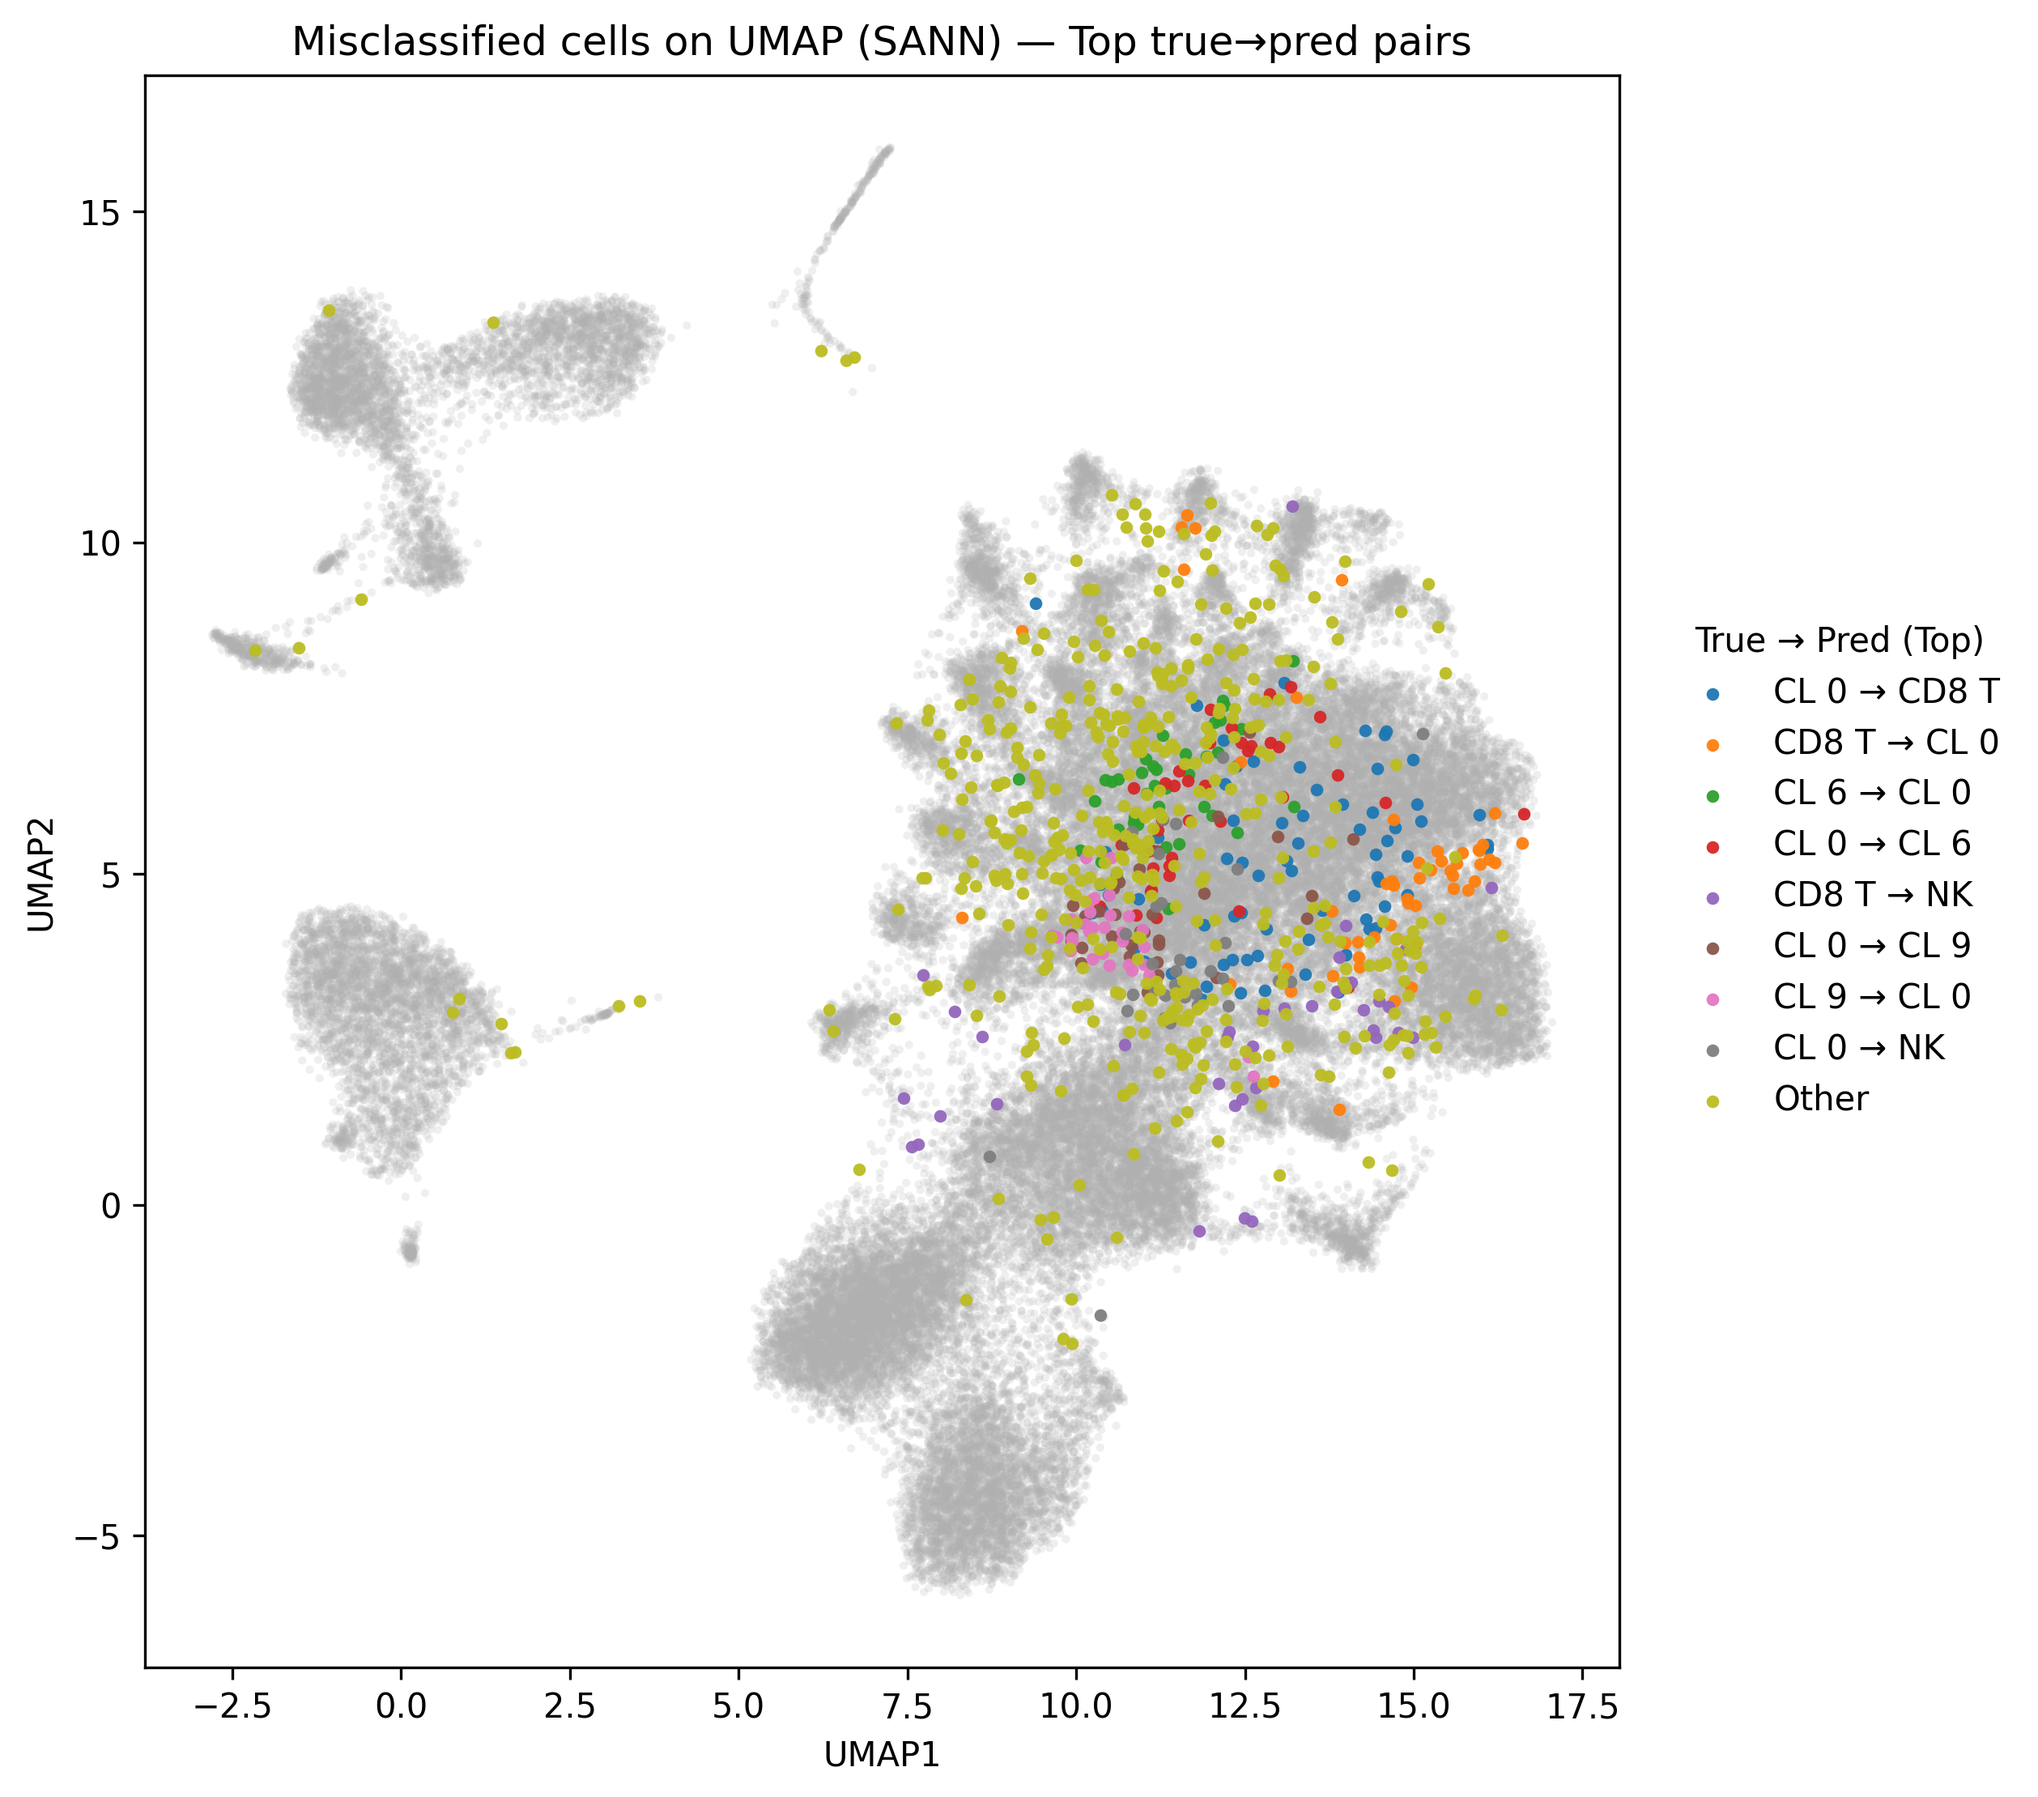
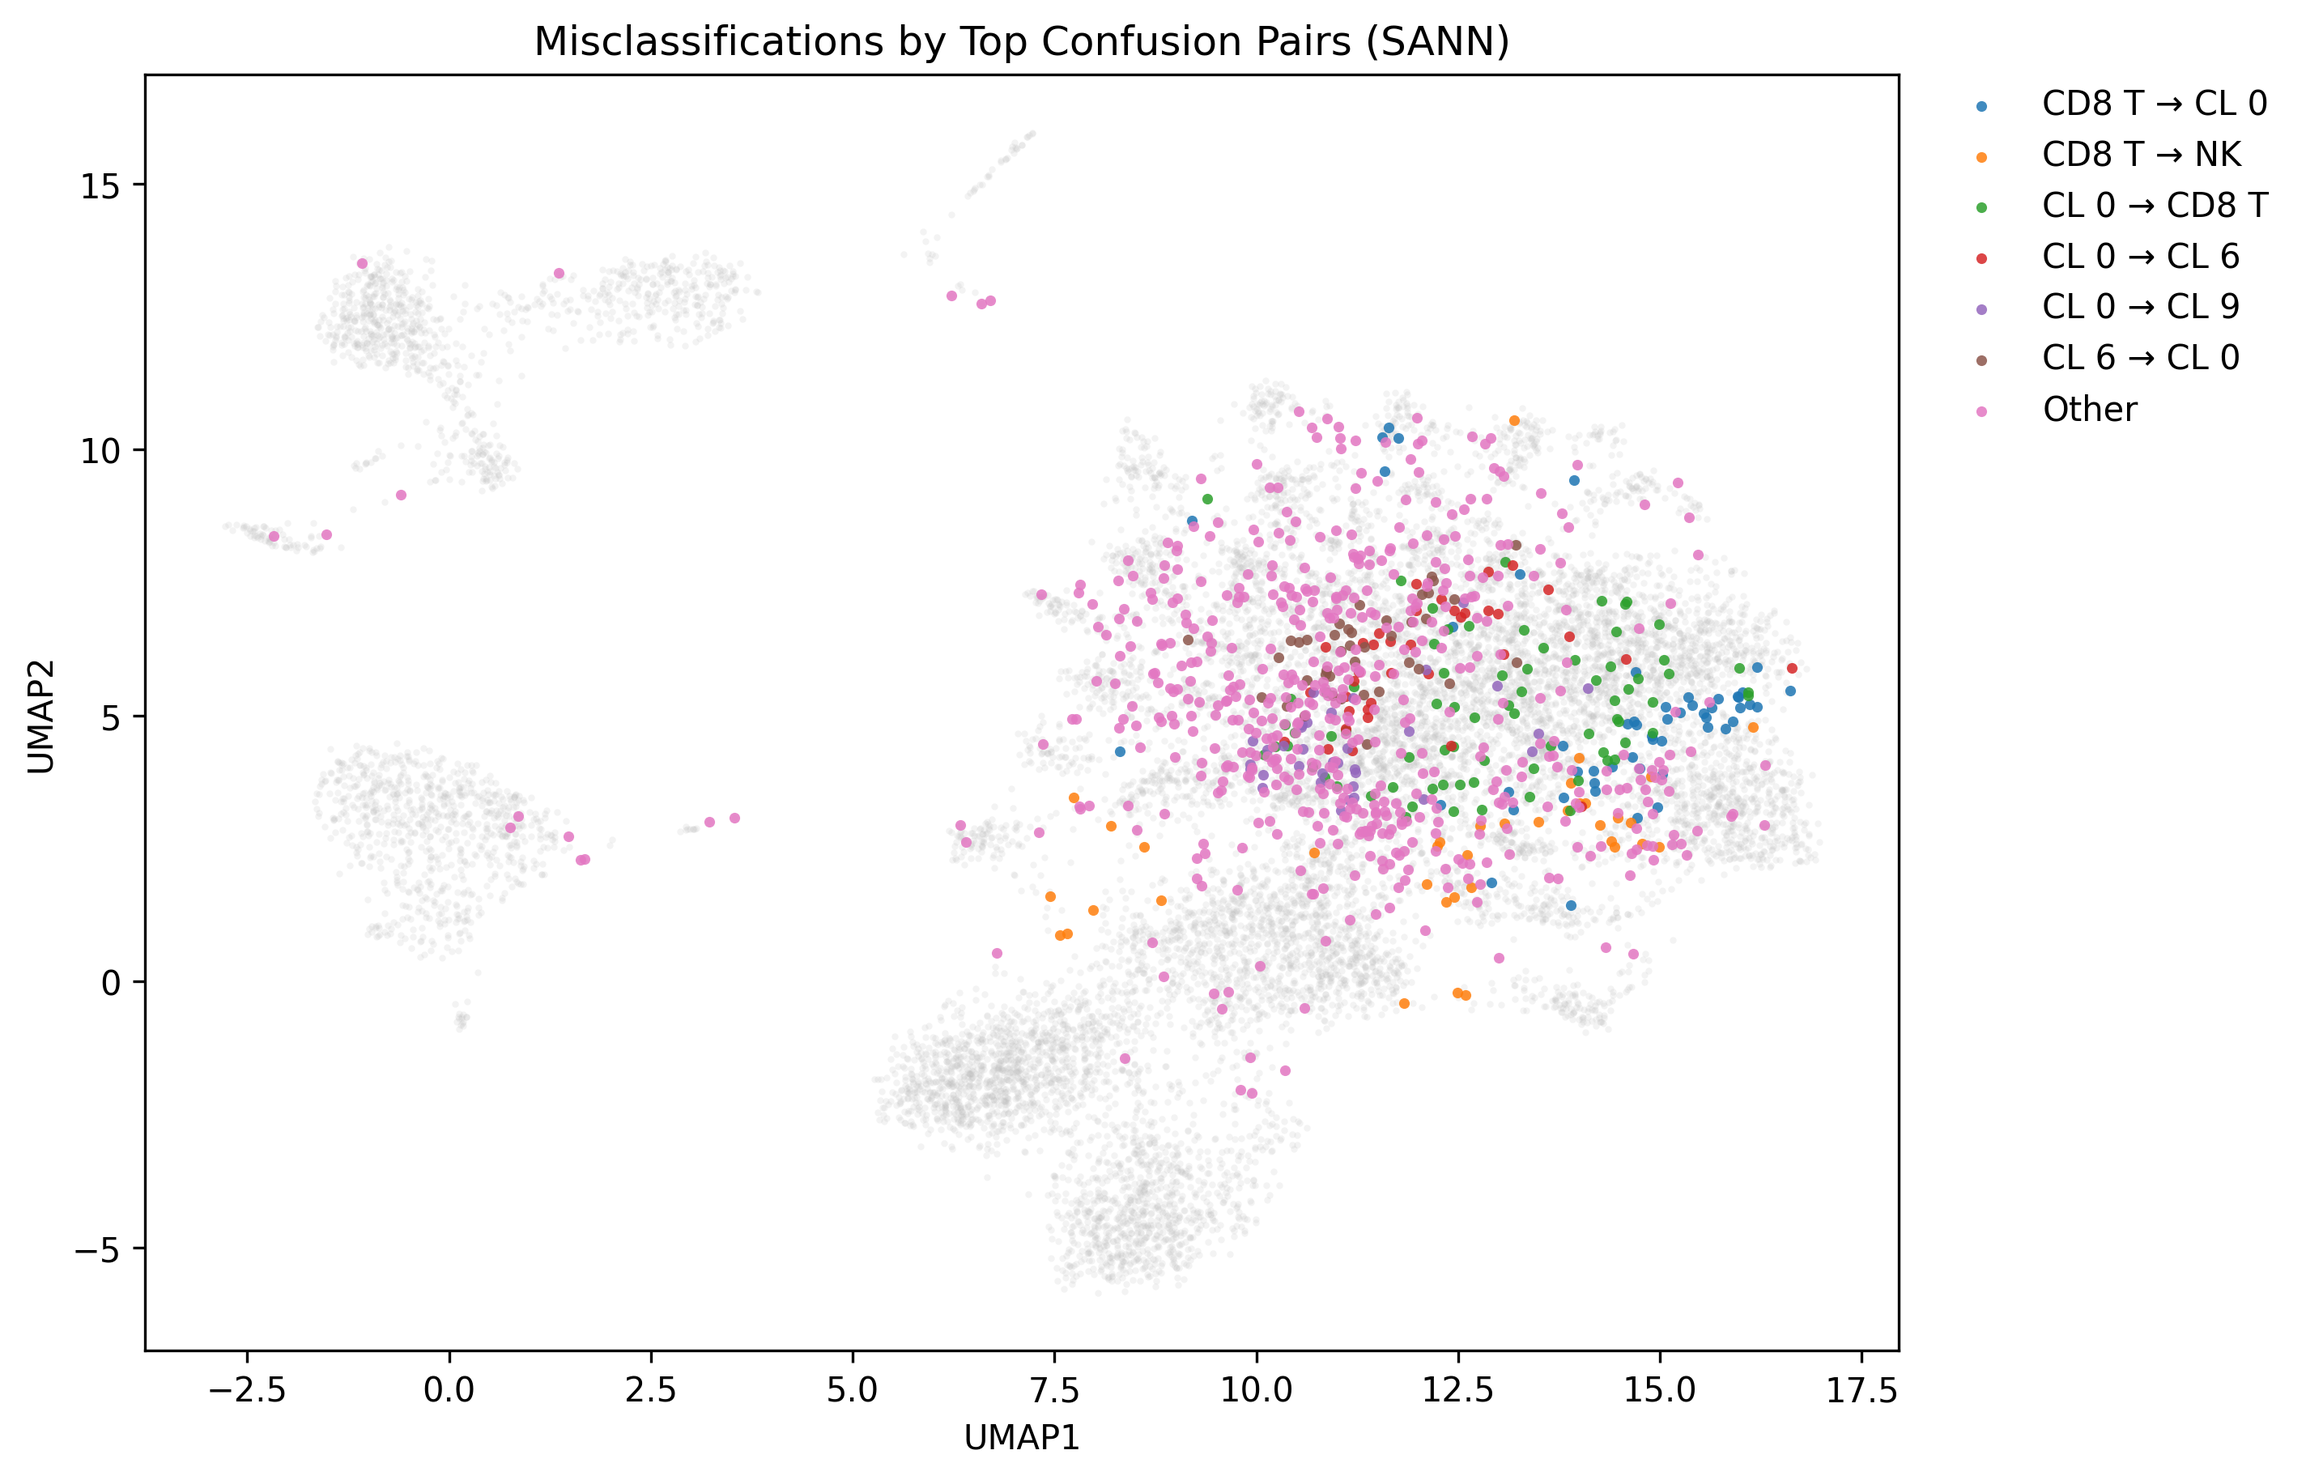
Error Density Graph

diff --git a/src/plot_umap_misclassifications.py b/src/plot_umap_misclassifications.py
@@ -1,0 +1,271 @@
+# src/plot_umap_misclassifications.py
+import os
+import json
+import argparse
+import numpy as np
+import scanpy as sc
+import matplotlib.pyplot as plt
+from sklearn.metrics import confusion_matrix
+
+
+def parse_args():
+    p = argparse.ArgumentParser(description="Plot misclassifications on UMAP (main + top-pairs + density).")
+    p.add_argument("--data", type=str, default="data/processed/pbmc68k_labeled.h5ad")
+    p.add_argument("--splits", type=str, default="results/ablations/fixed_splits.json")
+    p.add_argument("--model", type=str, default="sann", choices=["sann", "lr", "xgb"])
+
+    # saved predictions for TEST split only
+    p.add_argument("--true", type=str, default="")
+    p.add_argument("--pred", type=str, default="")
+
+    # plotting
+    p.add_argument("--outdir", type=str, default="results/figures")
+    p.add_argument("--top_k", type=int, default=6, help="Top confusion pairs to colour in the pair plot.")
+    p.add_argument("--dpi", type=int, default=300)
+
+    # marker sizes
+    p.add_argument("--bg_size", type=float, default=4.0, help="Background point size (test cells).")
+    p.add_argument("--err_size", type=float, default=10.0, help="Misclassified point size.")
+    p.add_argument("--bg_alpha", type=float, default=0.18, help="Background alpha.")
+    p.add_argument("--err_alpha", type=float, default=0.85, help="Error alpha.")
+
+    # density
+    p.add_argument("--hex_gridsize", type=int, default=55)
+    return p.parse_args()
+
+
+def ensure_dir(path: str):
+    os.makedirs(path, exist_ok=True)
+
+
+def default_paths(model: str):
+    if model == "sann":
+        return "results/sann_test_true.npy", "results/sann_test_pred.npy"
+    if model == "lr":
+        return "results/lr_test_true.npy", "results/lr_test_pred.npy"
+    if model == "xgb":
+        return "results/xgb_test_true.npy", "results/xgb_test_pred.npy"
+    raise ValueError("unknown model")
+
+
+def load_split_test_idx(splits_path: str):
+    with open(splits_path, "r") as f:
+        d = json.load(f)
+    if "test_idx" not in d:
+        raise ValueError(f"Split file must contain 'test_idx'. Found keys: {list(d.keys())}")
+    return np.array(d["test_idx"], dtype=int)
+
+
+def class_names_from_adata(adata, label_key="cell_type"):
+    # must match the encoding you used across scripts
+    y_cat = adata.obs[label_key].astype("category")
+    return list(y_cat.cat.categories)
+
+
+def top_confusion_pairs(y_true, y_pred, class_names, top_k=6):
+    """
+    Return list of top_k pairs as tuples (true_idx, pred_idx) by raw confusion count, excluding diagonal.
+    """
+    n = len(class_names)
+    cm = confusion_matrix(y_true, y_pred, labels=np.arange(n))
+    cm_off = cm.copy()
+    np.fill_diagonal(cm_off, 0)
+
+    flat = np.argsort(cm_off.ravel())[::-1]
+    pairs = []
+    for idx in flat:
+        i = idx // n
+        j = idx % n
+        c = cm_off[i, j]
+        if c <= 0:
+            break
+        pairs.append((i, j, int(c)))
+        if len(pairs) >= top_k:
+            break
+    return pairs, cm
+
+
+def plot_main(ax, umap_xy, is_mis, title, bg_size, err_size, bg_alpha, err_alpha):
+    # all test cells in grey
+    ax.scatter(
+        umap_xy[:, 0], umap_xy[:, 1],
+        s=bg_size, alpha=bg_alpha, linewidths=0,
+        c="#BDBDBD", label="Correct/All test"
+    )
+    # misclassified overlay in red
+    if is_mis.any():
+        ax.scatter(
+            umap_xy[is_mis, 0], umap_xy[is_mis, 1],
+            s=err_size, alpha=err_alpha, linewidths=0,
+            c="#D32F2F", label="Misclassified"
+        )
+
+    ax.set_title(title)
+    ax.set_xlabel("UMAP1")
+    ax.set_ylabel("UMAP2")
+    ax.grid(False)
+    ax.legend(frameon=False, loc="best")
+
+
+def plot_pairs(ax, umap_xy, y_true, y_pred, class_names, title, top_k, bg_size, err_size, bg_alpha, err_alpha):
+    is_mis = (y_true != y_pred)
+
+    # background: all test cells grey
+    ax.scatter(
+        umap_xy[:, 0], umap_xy[:, 1],
+        s=bg_size, alpha=bg_alpha, linewidths=0, c="#BDBDBD"
+    )
+
+    if not is_mis.any():
+        ax.set_title(title + " (no errors)")
+        ax.set_xlabel("UMAP1")
+        ax.set_ylabel("UMAP2")
+        return
+
+    pairs, _ = top_confusion_pairs(y_true, y_pred, class_names, top_k=top_k)
+    top_set = {(i, j) for (i, j, _) in pairs}
+
+    # assign label per misclassified point
+    labels = []
+    for t, p in zip(y_true[is_mis], y_pred[is_mis]):
+        if (t, p) in top_set:
+            labels.append(f"{class_names[t]} → {class_names[p]}")
+        else:
+            labels.append("Other")
+    labels = np.array(labels)
+
+    # plot each group separately (no custom colors needed; matplotlib cycles)
+    for lab in np.unique(labels):
+        mask = (labels == lab)
+        ax.scatter(
+            umap_xy[is_mis, 0][mask], umap_xy[is_mis, 1][mask],
+            s=err_size, alpha=err_alpha, linewidths=0,
+            label=lab
+        )
+
+    ax.set_title(title)
+    ax.set_xlabel("UMAP1")
+    ax.set_ylabel("UMAP2")
+    ax.grid(False)
+
+    # put legend outside to avoid covering data
+    ax.legend(frameon=False, bbox_to_anchor=(1.02, 1), loc="upper left", borderaxespad=0)
+
+
+def plot_density(ax, umap_xy, is_mis, title, bg_size, bg_alpha, gridsize):
+    # background test points grey
+    ax.scatter(
+        umap_xy[:, 0], umap_xy[:, 1],
+        s=bg_size, alpha=bg_alpha, linewidths=0, c="#BDBDBD"
+    )
+
+    if is_mis.any():
+        hb = ax.hexbin(
+            umap_xy[is_mis, 0], umap_xy[is_mis, 1],
+            gridsize=gridsize, mincnt=1
+        )
+        plt.colorbar(hb, ax=ax, fraction=0.046, pad=0.04, label="Misclassified density")
+
+    ax.set_title(title)
+    ax.set_xlabel("UMAP1")
+    ax.set_ylabel("UMAP2")
+    ax.grid(False)
+
+
+def main():
+    args = parse_args()
+    ensure_dir(args.outdir)
+
+    # resolve default y paths if not provided
+    if args.true == "" or args.pred == "":
+        t, p = default_paths(args.model)
+        args.true = t if args.true == "" else args.true
+        args.pred = p if args.pred == "" else args.pred
+
+    # load data + check UMAP
+    adata = sc.read_h5ad(args.data)
+    if "X_umap" not in adata.obsm:
+        raise ValueError("adata.obsm['X_umap'] not found. Compute UMAP first and save into the h5ad.")
+
+    test_idx = load_split_test_idx(args.splits)
+
+    # test UMAP
+    umap_xy = np.asarray(adata.obsm["X_umap"][test_idx], dtype=float)
+
+    # class names for pair labels
+    class_names = class_names_from_adata(adata, label_key="cell_type")
+
+    # load arrays
+    y_true = np.load(args.true).astype(int)
+    y_pred = np.load(args.pred).astype(int)
+
+    if len(y_true) != len(test_idx) or len(y_pred) != len(test_idx):
+        raise ValueError(
+            f"Length mismatch: test_idx={len(test_idx)} y_true={len(y_true)} y_pred={len(y_pred)}. "
+            "These must match."
+        )
+
+    is_mis = (y_true != y_pred)
+
+    print(f"[Sanity] Model: {args.model}")
+    print(f"[Sanity] Test cells: {len(test_idx)} | Misclassified: {int(is_mis.sum())}")
+
+    # 1) Main plot
+    fig, ax = plt.subplots(figsize=(7.2, 6.2))
+    plot_main(
+        ax,
+        umap_xy,
+        is_mis,
+        title=f"Misclassified Cells on UMAP ({args.model.upper()})",
+        bg_size=args.bg_size,
+        err_size=args.err_size,
+        bg_alpha=args.bg_alpha,
+        err_alpha=args.err_alpha,
+    )
+    out1 = os.path.join(args.outdir, f"umap_misclassified_{args.model}.png")
+    fig.tight_layout()
+    fig.savefig(out1, dpi=args.dpi, bbox_inches="tight")
+    plt.close(fig)
+    print(f"[Saved] {out1}")
+
+    # 2) Pair-coloured plot (optional strong)
+    fig, ax = plt.subplots(figsize=(9.6, 6.2))
+    plot_pairs(
+        ax,
+        umap_xy,
+        y_true,
+        y_pred,
+        class_names,
+        title=f"Misclassifications by Top Confusion Pairs ({args.model.upper()})",
+        top_k=args.top_k,
+        bg_size=args.bg_size,
+        err_size=args.err_size,
+        bg_alpha=args.bg_alpha,
+        err_alpha=args.err_alpha,
+    )
+    out2 = os.path.join(args.outdir, f"umap_misclassified_pairs_{args.model}.png")
+    fig.tight_layout()
+    fig.savefig(out2, dpi=args.dpi, bbox_inches="tight")
+    plt.close(fig)
+    print(f"[Saved] {out2}")
+
+    # 3) Density plot (tiny extra)
+    fig, ax = plt.subplots(figsize=(7.2, 6.2))
+    plot_density(
+        ax,
+        umap_xy,
+        is_mis,
+        title=f"Misclassification Density on UMAP ({args.model.upper()})",
+        bg_size=args.bg_size,
+        bg_alpha=args.bg_alpha,
+        gridsize=args.hex_gridsize,
+    )
+    out3 = os.path.join(args.outdir, f"umap_error_density_{args.model}.png")
+    fig.tight_layout()
+    fig.savefig(out3, dpi=args.dpi, bbox_inches="tight")
+    plt.close(fig)
+    print(f"[Saved] {out3}")
+
+
+if __name__ == "__main__":
+    main()
